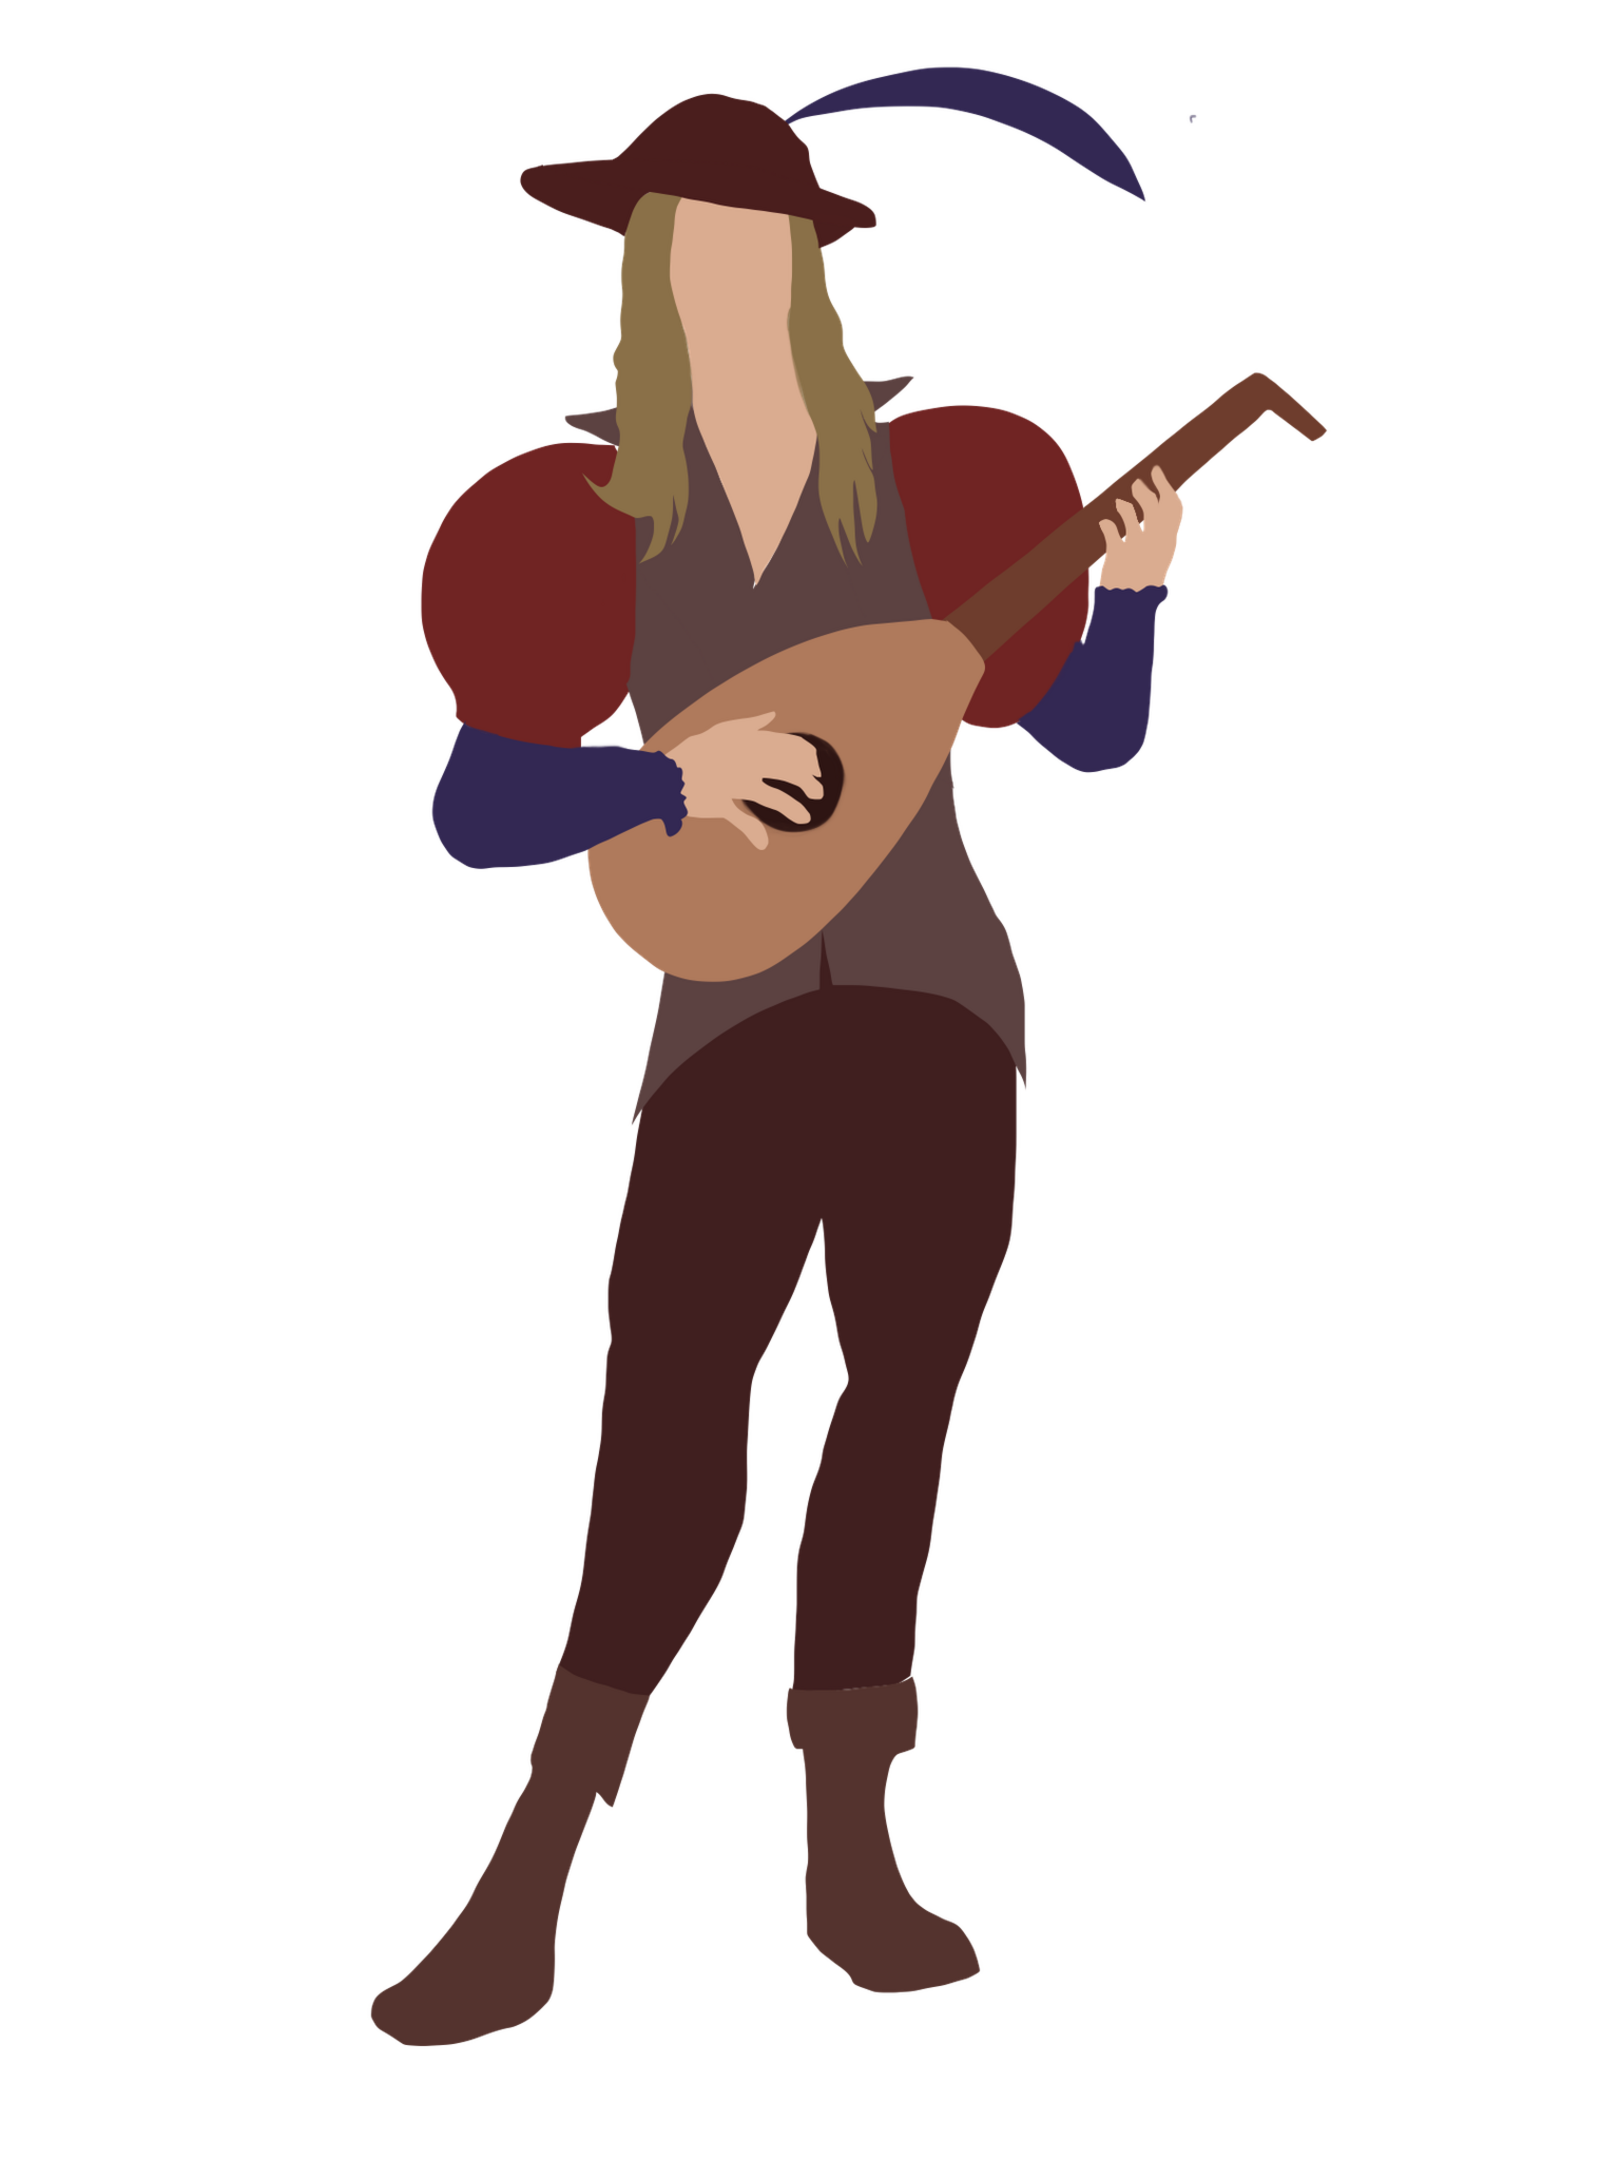
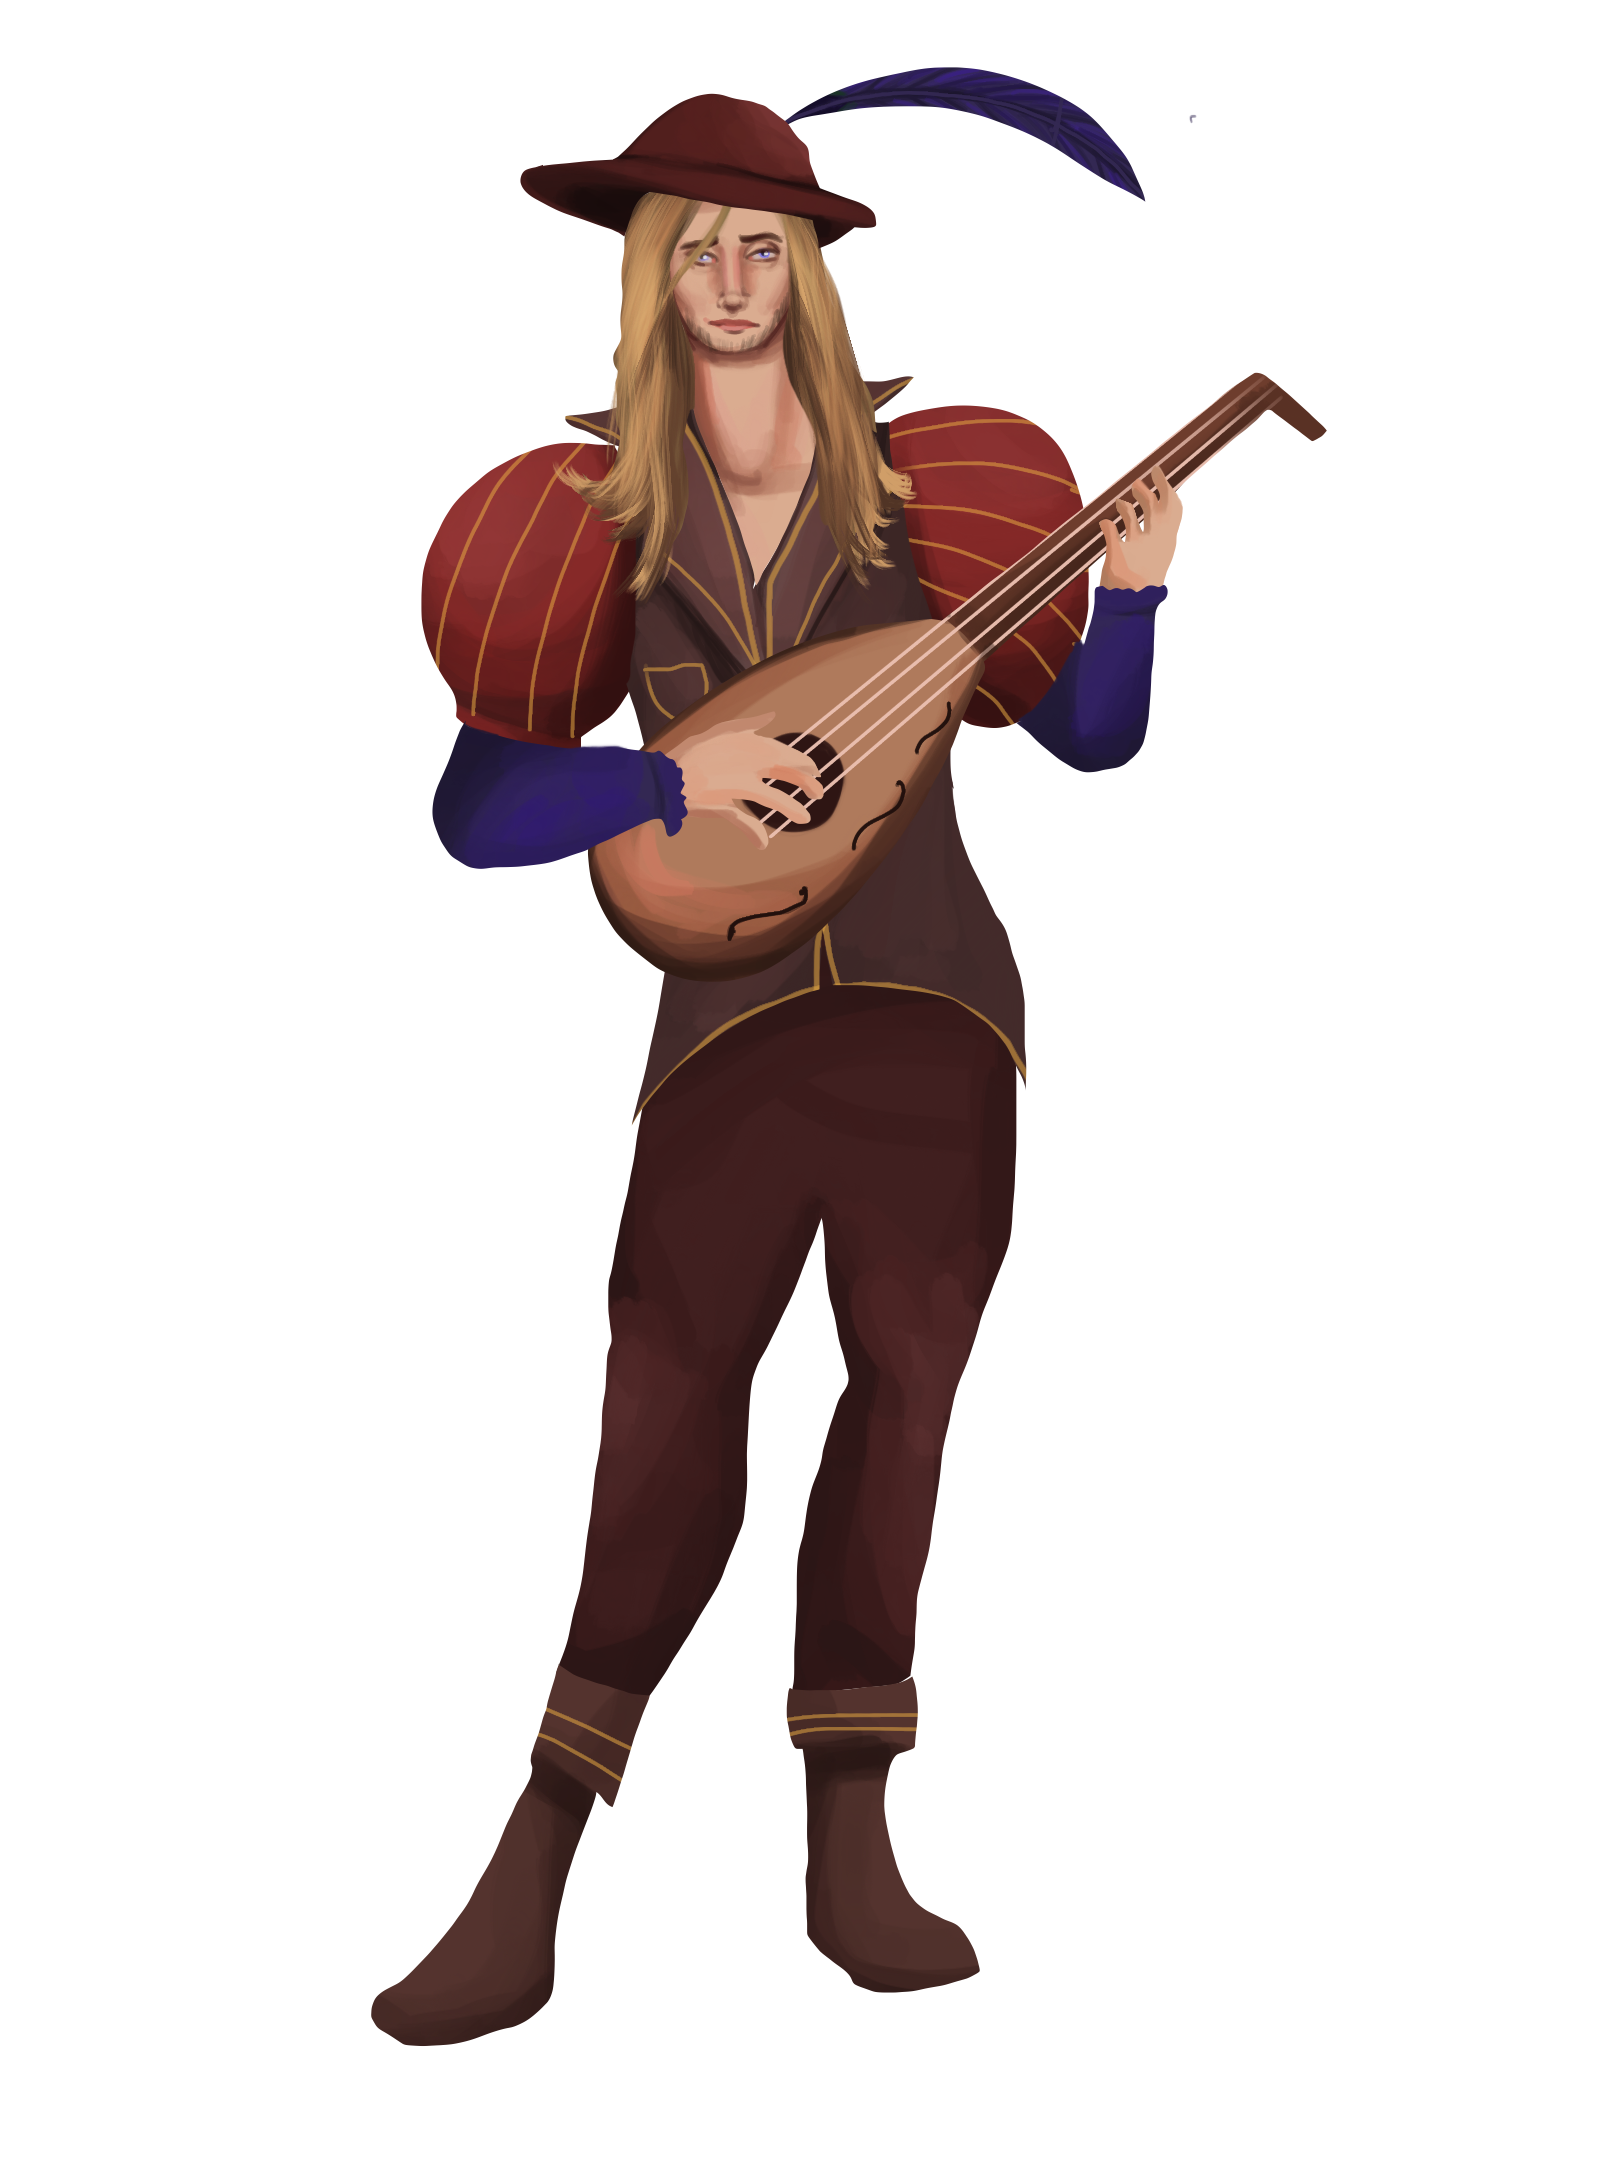
Aesthetic changes and commenting code
Added the characters and commented my code

diff --git a/JS/designScripts.js b/JS/designScripts.js
@@ -51,16 +51,16 @@ function journalstats() {
     var charStats = loadVar("character")
     console.log(charStats);
     if (charStats == "Wizard") {
-        document.getElementById("CharStatsy").innerHTML = "Wizard Stats<br>Str:-1<br>Dex:2<br>Con:0<br>Int:4<br>Wis:3<br>Chr:1";
+        document.getElementById("CharStatsy").innerHTML = "Wizard Stats<br>Strength:-1<br>Dexterity:2<br>Constitution:0<br>Intelligence:4<br>Wisdom:3<br>Charisma:1";
     }
     if (charStats == "Barbarian") {
-        document.getElementById("CharStatsy").innerHTML = "Barbarian Stats<br>Str:4<br>Dex:0<br>Con:3<br>Int:-1<br>Wis:1<br>Chr:2";
+        document.getElementById("CharStatsy").innerHTML = "Barbarian Stats<br>Strength:4<br>Dexterity:0<br>Constitution:3<br>Intelligence:-1<br>Wisdom:1<br>Charisma:2";
     }
     if (charStats == "Bard") {
-        document.getElementById("CharStatsy").innerHTML = "Bard Stats<br>Str:0<br>Dex:3<br>Con:2<br>Int:-1<br>Wis:1<br>Chr:4";
+        document.getElementById("CharStatsy").innerHTML = "Bard Stats<br>Strength:0<br>Dexterity:3<br>Constitution:2<br>Intelligence:-1<br>Wisdom:1<br>Charisma:4";
     }
     if (charStats == "Rogue") {
-        document.getElementById("CharStatsy").innerHTML = "Rogue Stats<br>Str:1<br>Dex:4<br>Con:0<br>Int:-1<br>Wis:3<br>Chr:2";
+        document.getElementById("CharStatsy").innerHTML = "Rogue Stats<br>Strength:1<br>Dexterity:4<br>Constitution:0<br>Intelligence:-1<br>Wisdom:3<br>Charisma:2";
     }
     return;
 }

diff --git a/index.html b/index.html
@@ -226,11 +226,11 @@
 
         <div id="nextPage">
 
-            <h1 style="position: absolute; top:5%; left:31%;">Character Stats</h1>
-            <p style="position: absolute; top: 15%; left:31%; color:black; font-size:25px;"id="CharStatsy" ></p>
-            <h1 style="position: absolute; top:5%; right:36%;">Inventory</h1> 
-            <P style="position: absolute; top: 15%; right:44%; color:black;">Player Gold:</P>
-            <p style="position: absolute; top: 27%; right:45%; color:black;">Items:</p>
+            <h1 style="position: absolute; top:5%; left:31%; font-family: Papyrus;">Character Stats</h1>
+            <p style="position: absolute; top: 15%; left:31%; color:black; font-size:25px; font-family: Papyrus;"id="CharStatsy" ></p>
+            <h1 style="position: absolute; top:5%; right:36%; font-family: Papyrus">Inventory</h1> 
+            <P style="position: absolute; top: 15%; right:44%; color:black; font-family: Papyrus">Player Gold:</P>
+            <p style="position: absolute; top: 27%; right:45%; color:black; font-family: Papyrus">Items:</p>
             <img src="../Functions/Art/Chapter1/OpenJournal.png" height="550px" onclick="nextPageAgain()">
             <button onclick="JournalOff()">Exit</button>
         </div>
